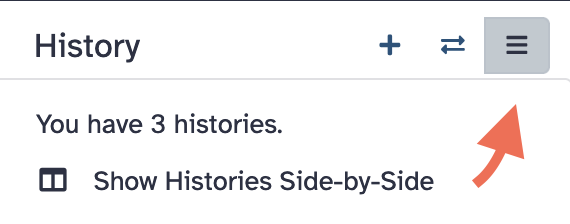
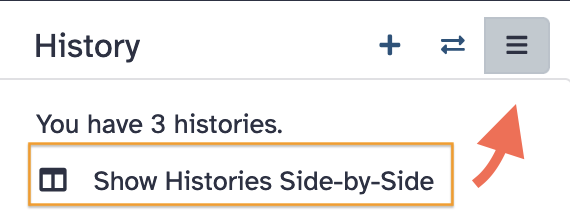
last check

Changed region(s): [[0.0298, 0.625, 0.8053, 0.9375]]

diff --git a/docs/AnalyseGenomes_2024/histories_check.md b/docs/AnalyseGenomes_2024/histories_check.md
@@ -1,5 +1,46 @@
 <center>
 ![](images/checkpoint.png){width="80"}
 </center> 
+We need to see that all the input datasets you need for next analyses in Galaxy
+are available in your account.
 
+Thus, you should have now downloaded 3 data sets in three distinct histories.
+
+- [x] Genomic references in an history `References`
+- [x] RNAseq datasets in an history `RNA sequence datasets` (or similar history name)
+- [x] small RNAseq datasets ub an history `Small RNAseq data` (or similar history name)
+
+Indeed, you can visualize these 3 histories side-by-side:
+
+Click on the upper-right icon in the history side bar (right handside of the
+Galaxy interface).
+
+Select the item `Show Histories Side-by-Side`
+
+![](images/side-by-side.png){width="300px"}
+
+This menu takes you to the "History multiview" feature. This view mode is
+convenient for various datasets managements, for instance for copying datasets
+between histories (just drag and drop the datasets over the histories)
+
+It is also handy to have a global view of your analyses in Galaxy (especially
+if you gave appropriate and meaningful names to theses histories).
+
+Thus, in the current mutiview, you should see your three dataset histories
+side-by-side.
+
+Please, be sure it is the case (if not explore the interface in order to display
+these three histories).
+
+Then, take a screenshot of these histories, similar to the following image.
+
+![](images/AG_input_data_histories.png){width="600px"}
+
+And please, paste your screenshot in the third GitHub
+[discussion](https://github.com/ARTbio/AnalyseGenome/discussions/42) in a
+separate comment (one by student).
+
+<center>
+![](images/thanks.jpg){width="300px"}
+</center>
 ---
